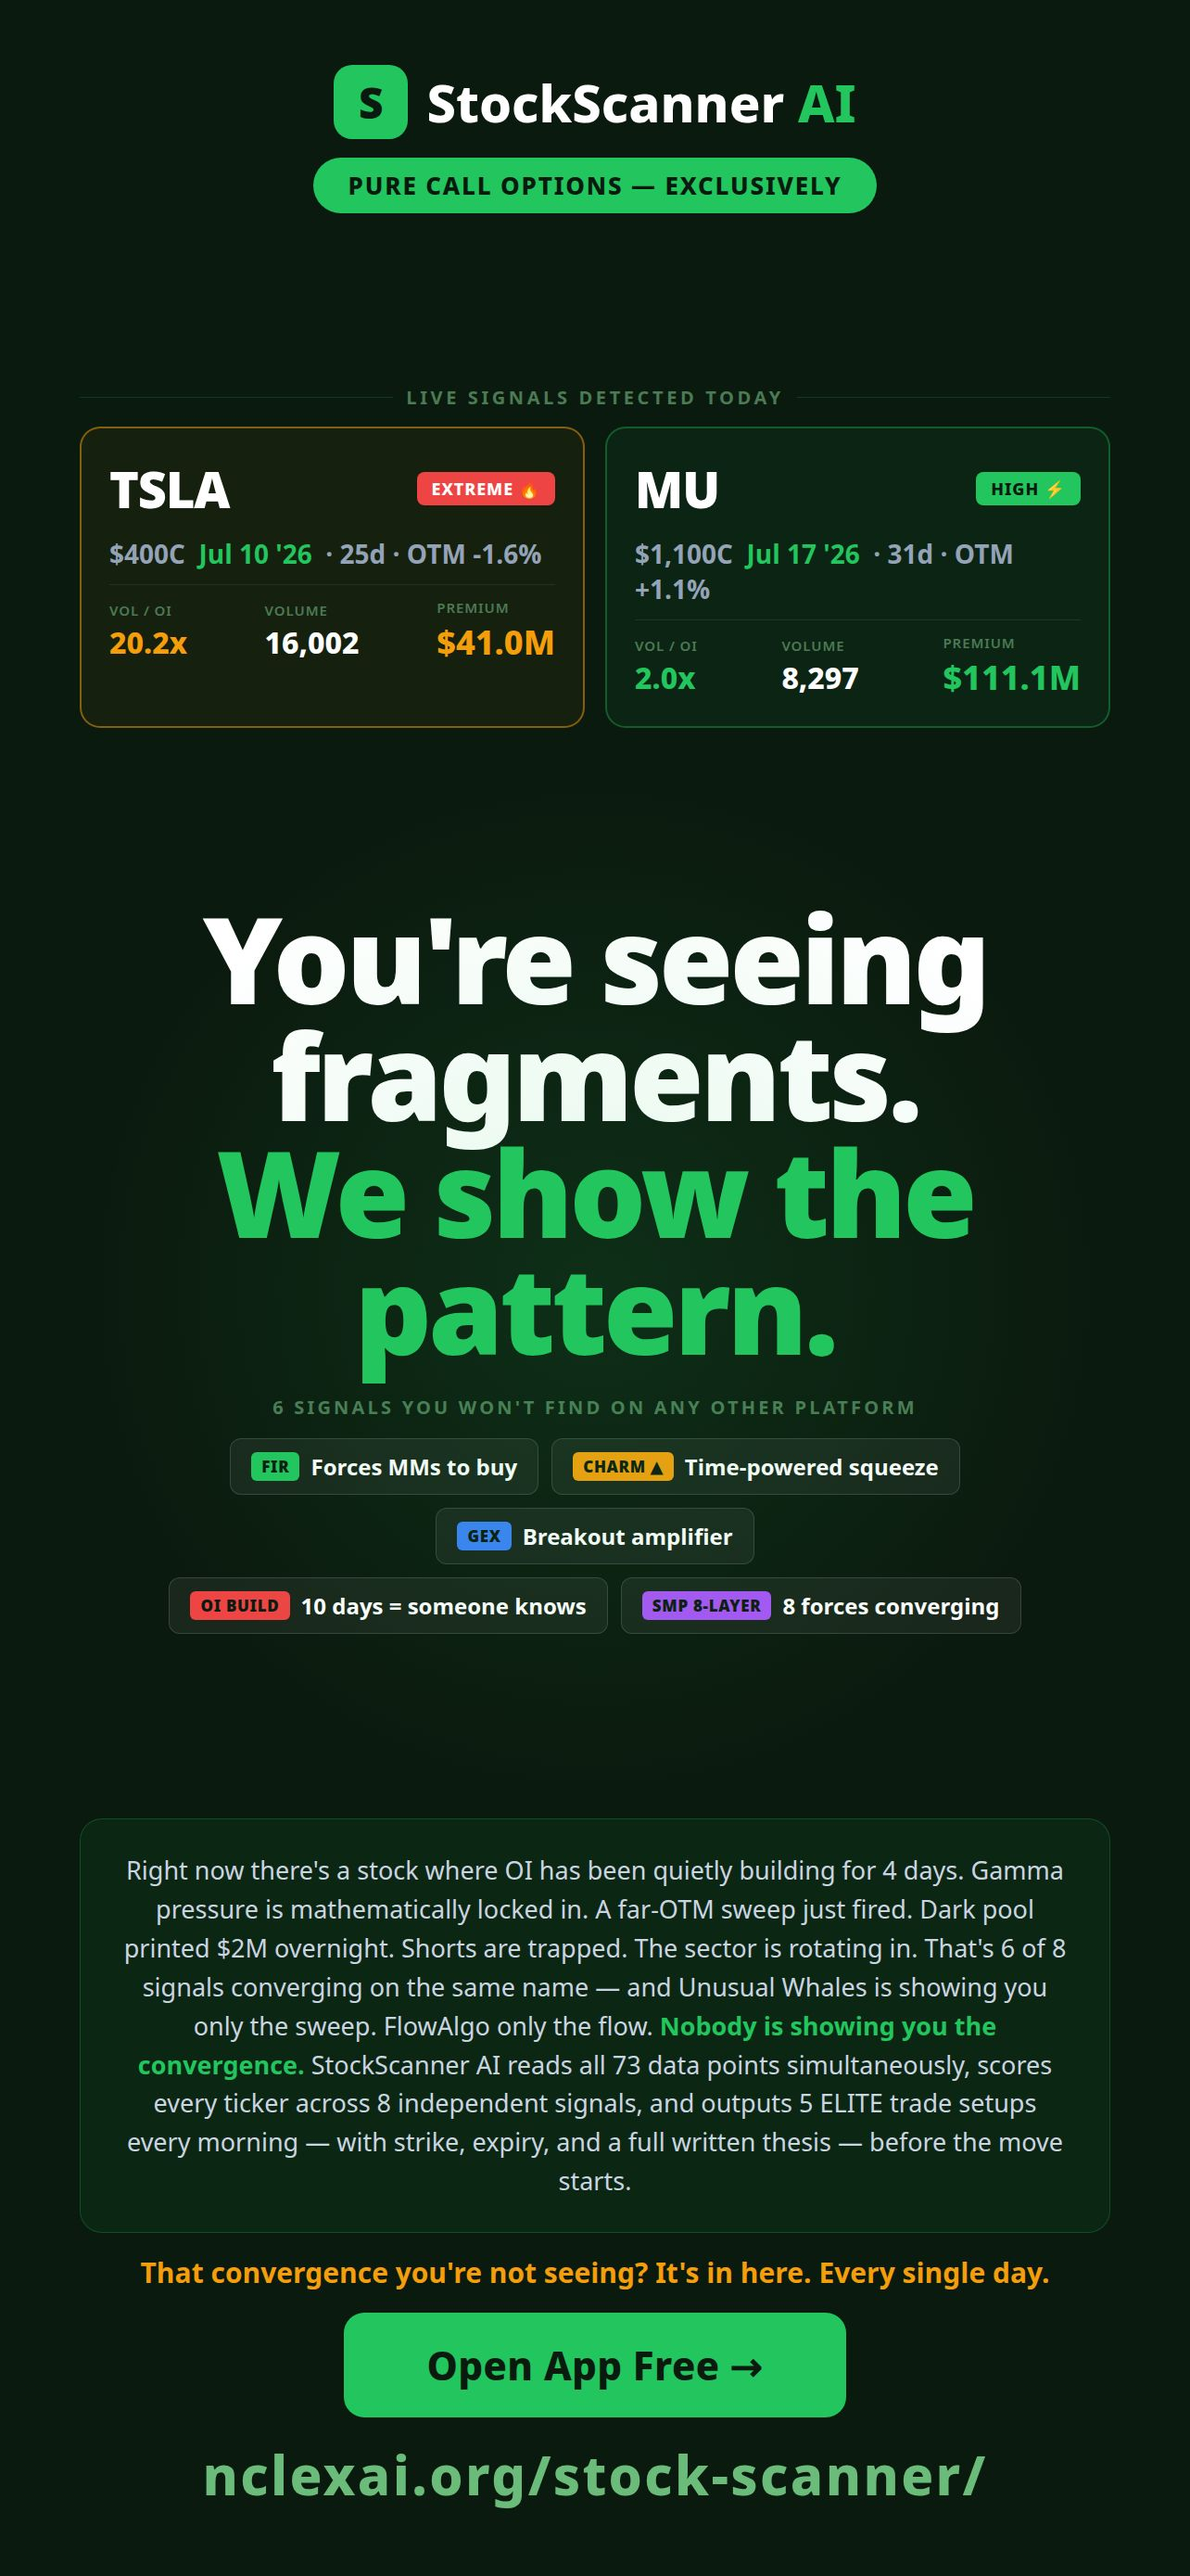
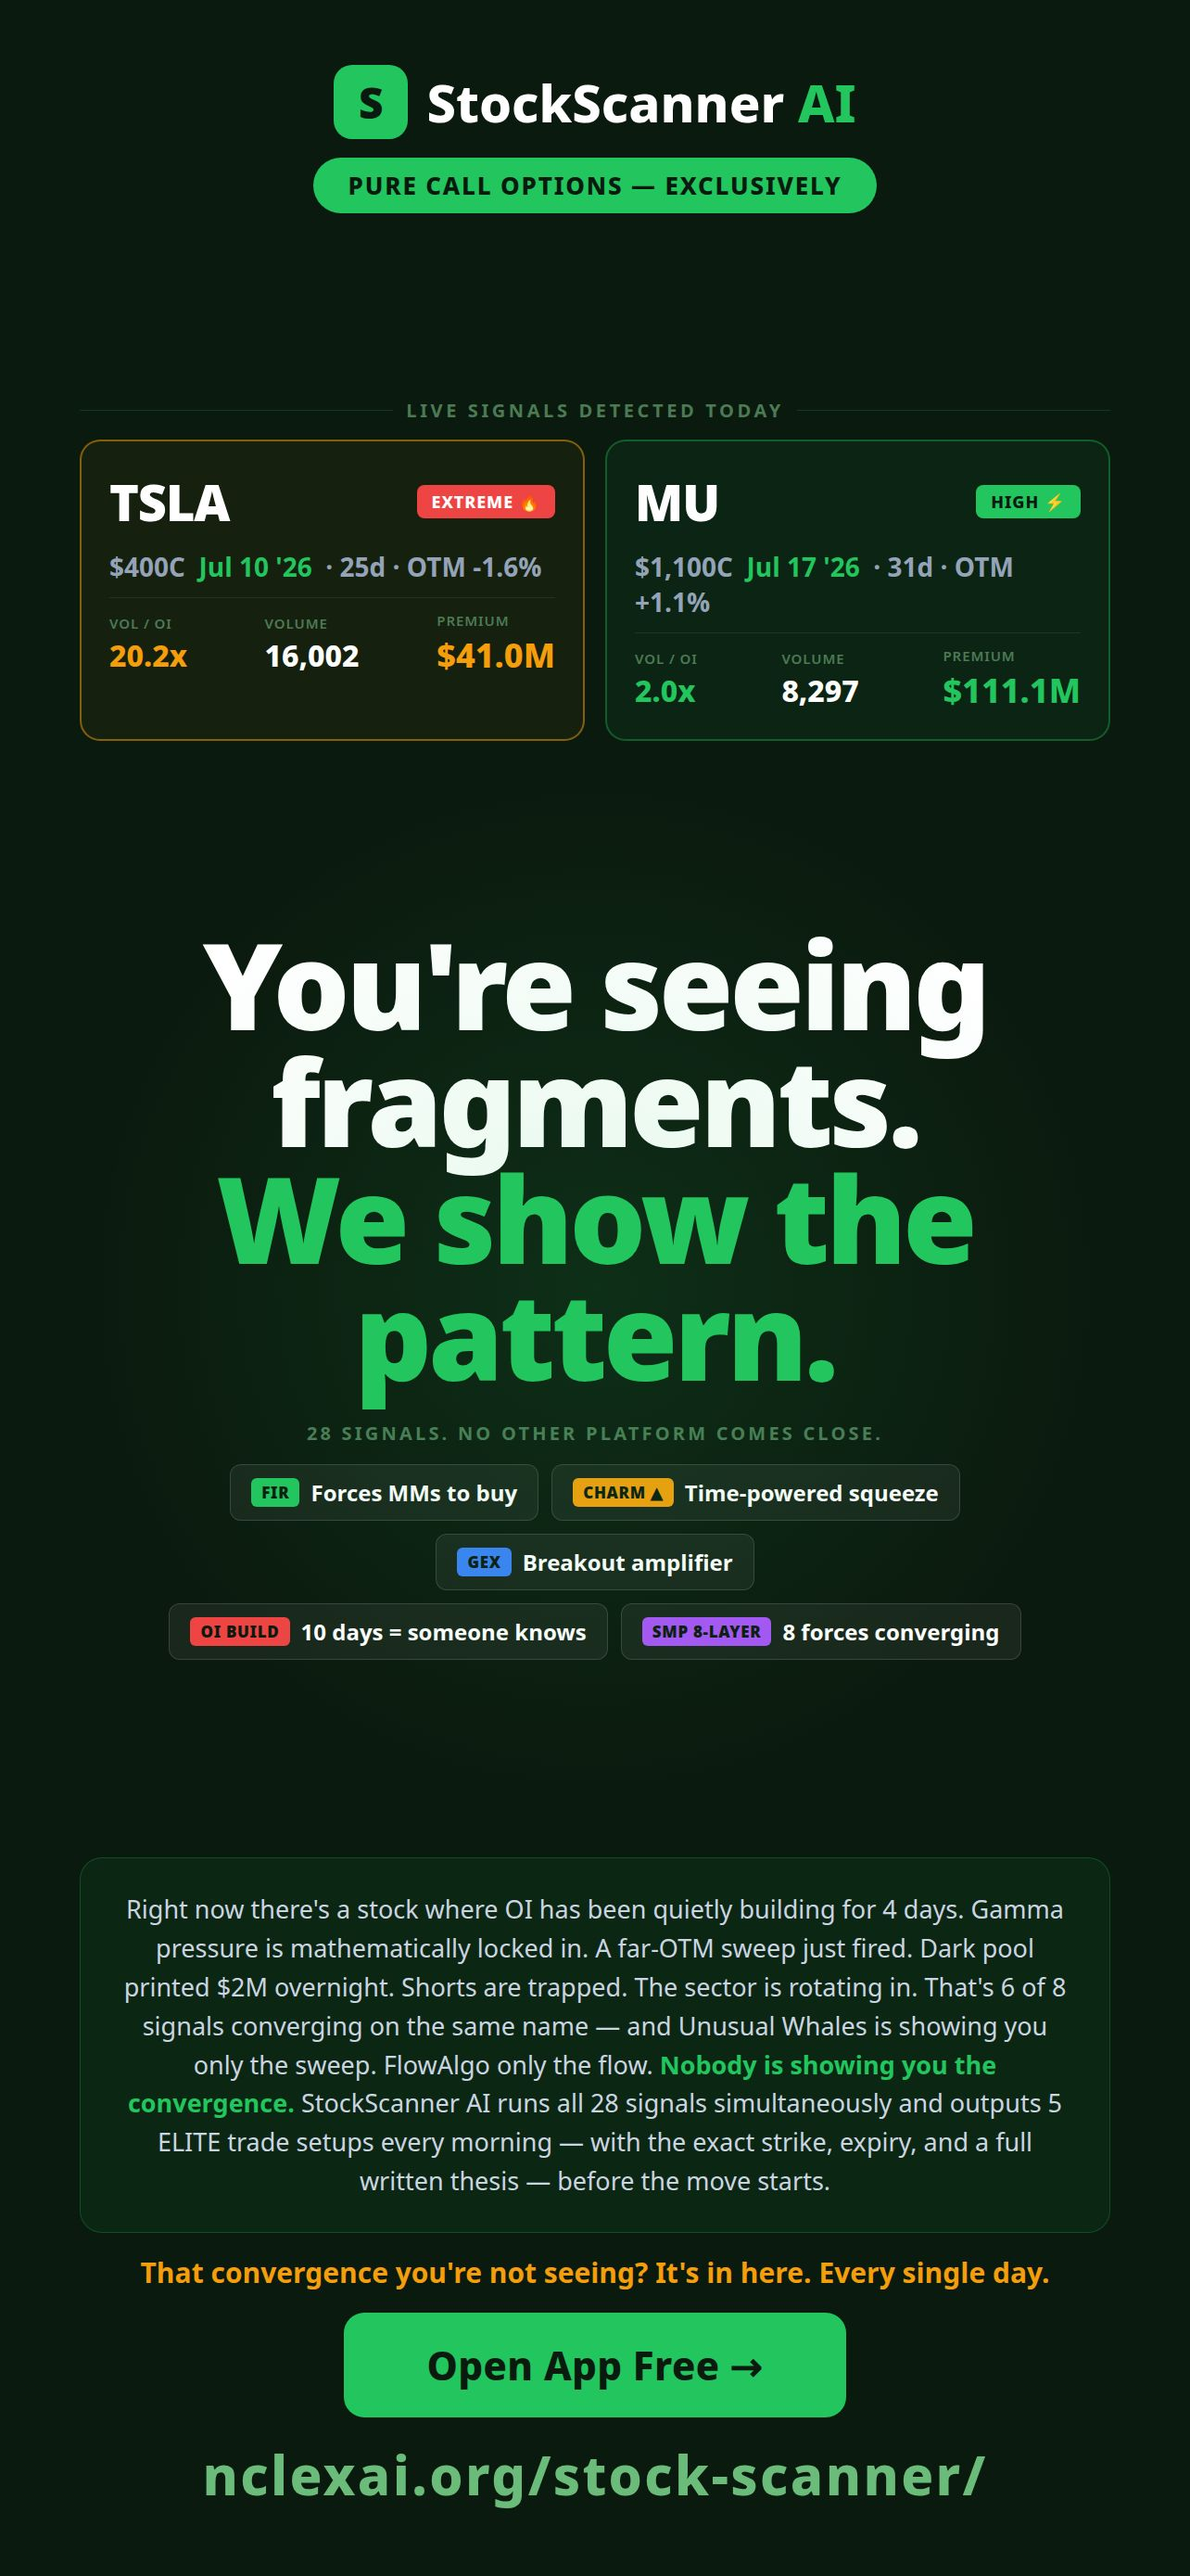
Update platform to reflect 28 signals instead of 73 data points
Update marketing copy and metadata to accurately reflect the number of signals processed by the StockScanner AI.

Replit-Commit-Author: Agent
Replit-Commit-Session-Id: 8530e9e7-59ef-4bc2-8765-e5fc093a2462
Replit-Commit-Checkpoint-Type: full_checkpoint
Replit-Commit-Event-Id: ba5e8a88-eeec-4873-bfdb-33723f53fe98
Replit-Commit-Screenshot-Url: https://storage.googleapis.com/screenshot-production-us-central1/6536a28a-761f-478a-b95d-a95c18a9d21e/8530e9e7-59ef-4bc2-8765-e5fc093a2462/HOCT0FF
Replit-Helium-Checkpoint-Created: true

diff --git a/artifacts/stock-scanner/src/pages/Landing.tsx b/artifacts/stock-scanner/src/pages/Landing.tsx
@@ -259,7 +259,7 @@ export default function Landing() {
           </div>
 
           <p className="mx-auto mb-6 text-slate-300" style={{ fontSize: "clamp(1.1rem,2.5vw,1.4rem)", maxWidth: "680px", lineHeight: 1.75 }}>
-            Right now there's a stock where OI has been quietly building for 4 days. Gamma pressure is mathematically locked in. A far-OTM sweep just fired. Dark pool printed $2M overnight. Shorts are trapped. The sector is rotating in. That's 6 of 8 signals converging on the same name — and Unusual Whales is showing you only the sweep. FlowAlgo only the flow. <strong className="text-white">Nobody is showing you the convergence.</strong> StockScanner AI reads all 73 data points simultaneously, scores every ticker across 8 independent signals, and outputs 5 ELITE trade setups every morning — with strike, expiry, and a full written thesis — before the move starts.
+            Right now there's a stock where OI has been quietly building for 4 days. Gamma pressure is mathematically locked in. A far-OTM sweep just fired. Dark pool printed $2M overnight. Shorts are trapped. The sector is rotating in. That's 6 of 8 signals converging on the same name — and Unusual Whales is showing you only the sweep. FlowAlgo only the flow. <strong className="text-white">Nobody is showing you the convergence.</strong> StockScanner AI runs 28 signals simultaneously — 20 ICS scoring signals plus an 8-layer conviction stack — and outputs 5 ELITE trade setups every morning with the exact strike, expiry, and a full written thesis, before the move starts.
           </p>
 
           <p className="mx-auto mb-12 font-bold" style={{ fontSize: "1.05rem", maxWidth: "580px", color: "#fbbf24" }}>
@@ -371,7 +371,7 @@ export default function Landing() {
               AI Trade Synthesis
             </h2>
             <p className="text-slate-300 mb-8" style={{ maxWidth: "620px", fontSize: "1.1rem", lineHeight: 1.75 }}>
-              Every day, our AI reads all 73 data points simultaneously — including signals no other platform tracks: <strong className="text-white">Float Impact Ratio (FIR)</strong>, the mathematical forcing function that makes market makers legally required to buy; <strong className="text-white">Charm Acceleration</strong>, the time-decaying squeeze that builds buying pressure every single day without a price catalyst; and <strong className="text-white">Dealer Gamma Exposure (GEX)</strong>, which tells you whether a breakout will run or fade before you enter. On top of those: dark pool flow, smart money vs retail divergence, options flow, IV rank, gamma walls, max pain, market regime, OI buildup days, consecutive accumulation streaks, short squeeze fuel, MACD momentum, VWAP, VIX term structure, HYG credit health, and more. Then it outputs 5 ELITE trade setups, written in plain English, ranked from most bullish to most bearish.
+              Every day, our AI runs all 28 signals simultaneously — including signals no other platform tracks: <strong className="text-white">Float Impact Ratio (FIR)</strong>, the mathematical forcing function that makes market makers legally required to buy; <strong className="text-white">Charm Acceleration</strong>, the time-decaying squeeze that builds buying pressure every single day without a price catalyst; and <strong className="text-white">Dealer Gamma Exposure (GEX)</strong>, which tells you whether a breakout will run or fade before you enter. On top of those: dark pool flow, smart money vs retail divergence, options flow, IV rank, gamma walls, max pain, market regime, OI buildup days, consecutive accumulation streaks, short squeeze fuel, MACD momentum, VWAP, VIX term structure, HYG credit health, and more. Then it outputs 5 ELITE trade setups, written in plain English, ranked from most bullish to most bearish.
             </p>
             {/* ── SMP L1–L8 BREAKDOWN ── */}
             <div className="rounded-2xl p-5 mb-8" style={{ background: "rgba(251,146,60,0.05)", border: "1px solid rgba(251,146,60,0.2)" }}>
@@ -420,7 +420,7 @@ export default function Landing() {
                 <p className="text-xs uppercase tracking-widest font-bold mb-3" style={{ color: "#4ade80" }}>What you get from StockScanner AI</p>
                 <div className="space-y-2">
                   {[
-                    "All 73 data points → fed to AI together",
+                    "All 28 signals → fed to AI together",
                     "5 picks → sorted most bullish to bearish",
                     "Entry strike + expiry + target + stop",
                     "Written thesis: why these signals align",
